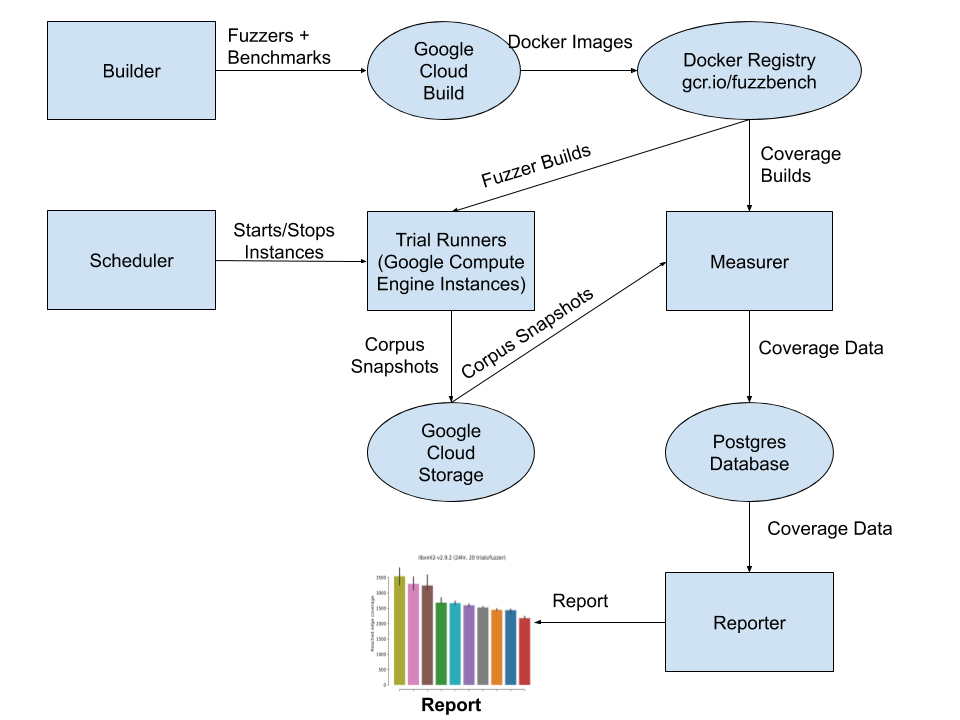
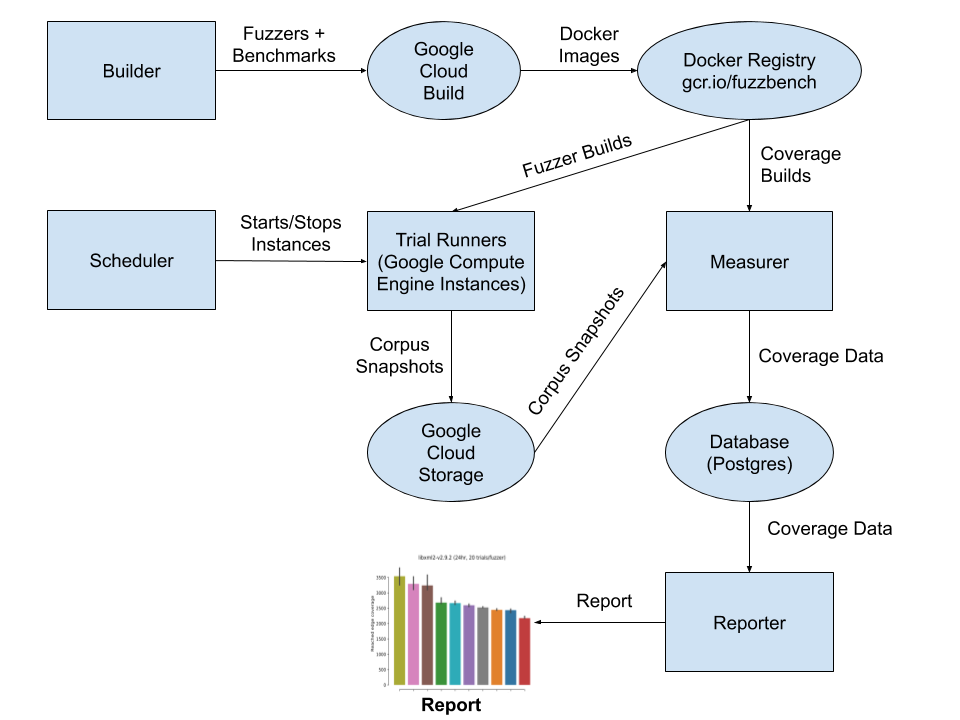
Abhishek's suggestions+Diagram fix

diff --git a/docs/reference/how_it_works.md b/docs/reference/how_it_works.md
@@ -34,8 +34,9 @@ refer to the [script/process the instance
 runs](https://github.com/google/fuzzbench/blob/master/experiment/dispatcher.py).
 The dispatcher (script) doesn't actually do much on its own. It does some
 basic initialization like saving details about the experiment to the database
-and then starts four other major components the builder, the scheduler, the
-measurer, the reporter, which are all run on the same instance.
+and then starts four other major components - the builder, the scheduler, the
+measurer, and the reporter. All of these components run on the dispatcher
+instance.
 
 ## Builder
 
@@ -69,14 +70,14 @@ from coverage builds, it simply runs the binaries directly on the dispatcher.
 
 ## Scheduler
 
-Once the builder has finished the dispatcher starts the scheduler. The scheduler
-is responsible for starting and stopping trial runners, which are instances on
-Google Compute Engine. The scheduler will continuously try to create instances
-for trials without one. This means that if an experiment requires too many
-resources from Google Cloud to complete at once, it can still be run anyway
-(after some resources are freed up by trials that have ended. The scheduler
-stops running after all trials that need to be run have run for their budgeted
-time, which is specified when starting an experiment.
+Once the builder has finished, the dispatcher starts the scheduler. The
+scheduler is responsible for starting and stopping trial runners, which are
+instances on Google Compute Engine. The scheduler will continuously try to
+create instances for trials without one. This means that if an experiment
+requires too many resources from Google Cloud to complete at once, it can still
+be run anyway after some resources are freed up by trials that have ended. The
+scheduler stops running after all trials that need to be run have run for their
+specified time. This is specified when starting an experiment.
 
 ## Trial runners
 
@@ -96,7 +97,7 @@ experiment.
 ## Measurer
 
 The role of the
-[measuer](https://github.com/google/fuzzbench/blob/master/experiment/measurer.py)
+[measurer](https://github.com/google/fuzzbench/blob/master/experiment/measurer.py)
 is to take the output of the trial runners and make it usable for generating
 reports. To do this, the measurer downloads coverage builds for each benchmark
 and then continuously downloads corpus snapshots, measures their coverage, and
